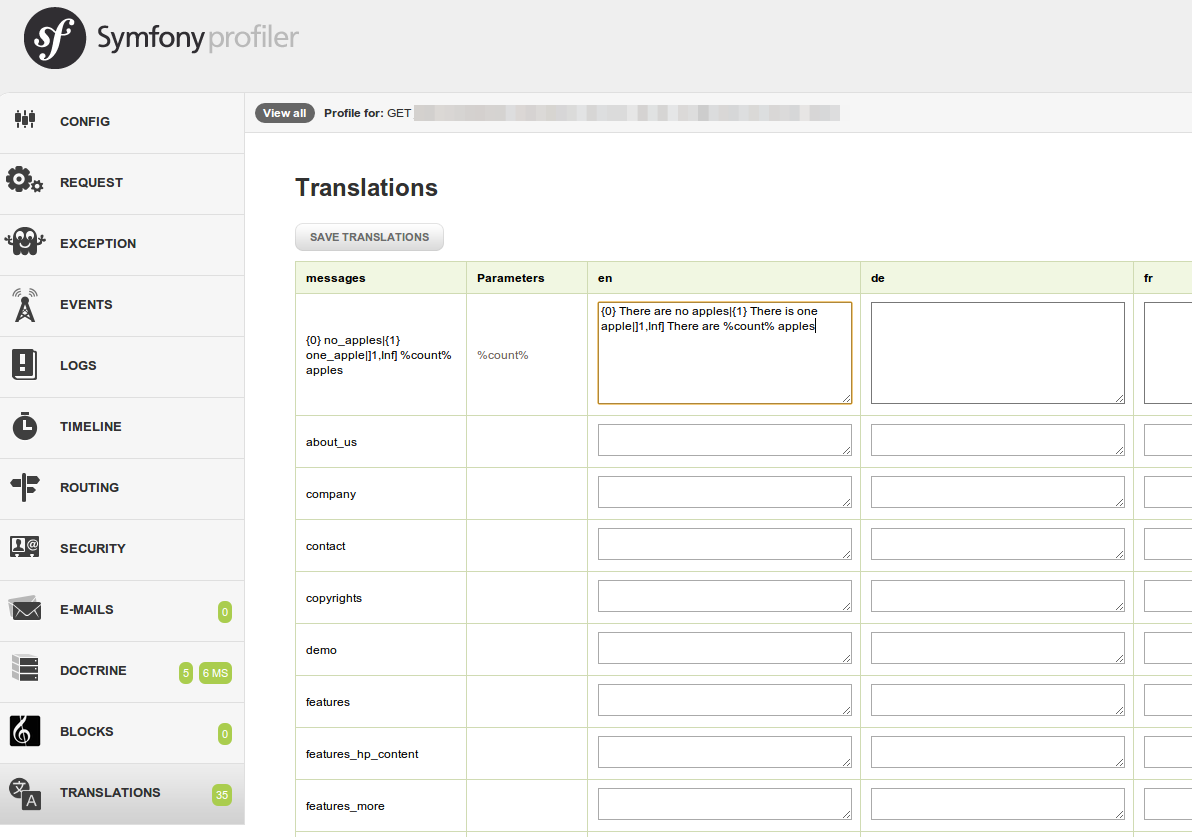
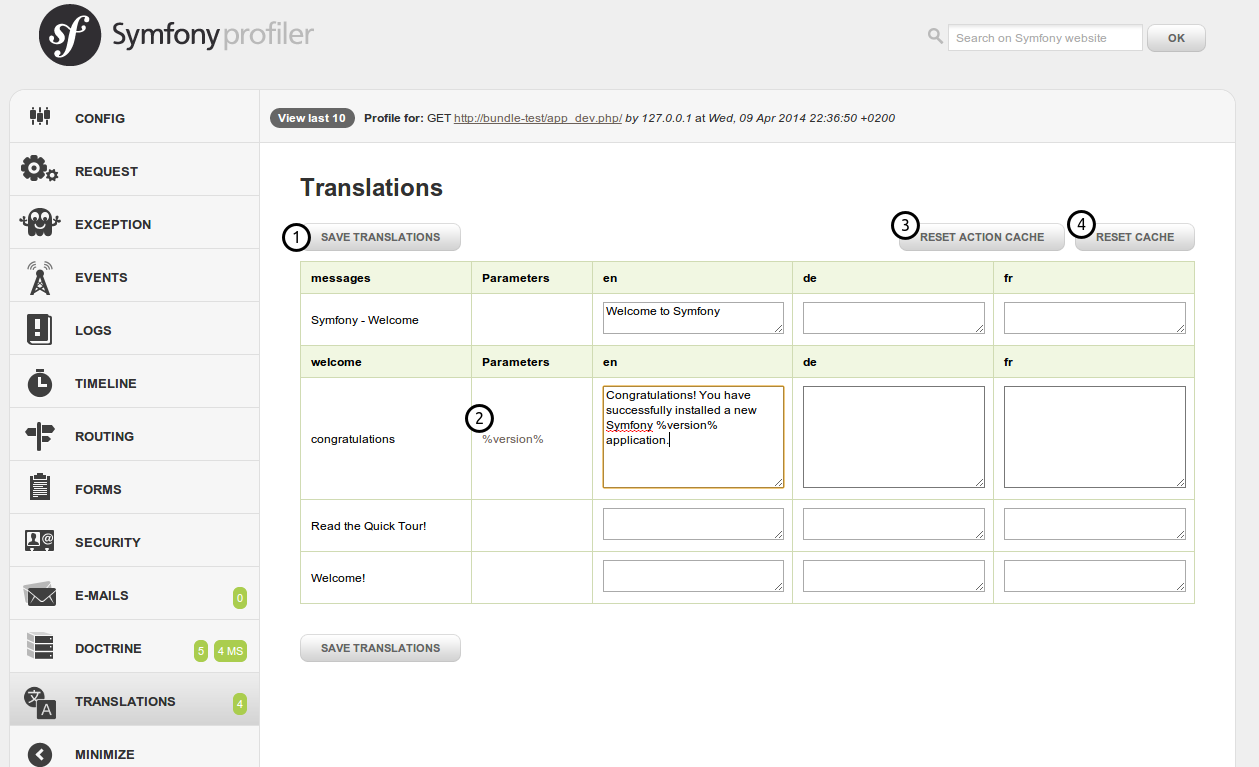
Updated docs about cache.

diff --git a/README.md b/README.md
@@ -8,8 +8,9 @@ This bundle provides doctrine as translations storage and a nice web gui accessi
 Features
 ========
 
-* All translation messages are automatically saved in database (no extraction necessary)
+* All translation messages are automatically saved in the database (no extraction necessary)
 * Translation panel available in the Symfony web debug toolbar
+* Only messages used in current action are loaded from the database
 
 Installation
 ============
@@ -113,8 +114,14 @@ You can access translations panel by clicking on Translations in the web debug t
 ![Translations web debug toolbar](https://raw.github.com/adrianolek/AOTranslationBundle/master/Resources/doc/img/profiler.png)
 
 Now you can edit all your translation messages.
-Message parameters can be inserted directly into translation by clicking on the link in Parameters column.
-After you are done click `Save Translations`.
+Message parameters can be inserted directly into translation by clicking on the link in Parameters (2) column.
+After you are done click the `Save Translations` button (1).
+
+As the translator needs to know which messages are used in each action, it stores this relation in a cache table.
+Therefore, when a message is not used anymore it will still be visible in the translations panel.
+To clear the cached messages use the `Reset action cache` button, which will clear the cache for current action.
+Alternatively use the `Reset cache` button, which will clear cache for all actions.
+The cache will be rebuilt with the next execution of an action.
 
 ![Translations panel](https://raw.github.com/adrianolek/AOTranslationBundle/master/Resources/doc/img/panel.png)
 
